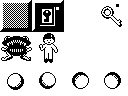
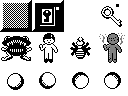
Add files via upload

Changed region(s): [[0.7812, 0.3438, 0.9688, 0.6562], [0.5312, 0.375, 0.7188, 0.625]]

diff --git a/index.html b/index.html
@@ -5,8 +5,8 @@
 <head>
   <meta charset="UTF-8">
   <title>Heroe escape</title>
-
-  <link rel="manifest" href="manifest.json">
+  <meta name="viewport" content="width=device-width, initial-scale=1.0, maximum-scale=1.0, user-scalable=no">
+  <link rel="manifest" href="manifest.webmanifest">
 
 
 
@@ -15,6 +15,9 @@
   <link href="https://fonts.googleapis.com/icon?family=Material+Icons" rel="stylesheet">
 
 
+  <link href="https://unpkg.com/nes.css@2.3.0/css/nes.min.css" rel="stylesheet" />
+
+  <link rel="shortcut icon" href="icon-192x192.png" type="image/x-icon">
 
   <script src="js/howler.core.js"></script>
   <script src='js/juego.js'></script>
@@ -25,17 +28,30 @@
     }
 
     body {
+      -webkit-user-select: none;
+      -moz-user-select: none;
+      -ms-user-select: none;
+      user-select: none;
+
+
+
       font-family: fuente !important;
+      background-image: repeating-linear-gradient(257deg, hsla(20, 0%, 93%, 0.12) 0px, transparent 2px, hsla(20, 0%, 93%, 0.12) 5px, transparent 9px, hsla(20, 0%, 93%, 0.12) 12px), repeating-linear-gradient(152deg, hsla(20, 0%, 93%, 0.12) 0px, transparent 2px, hsla(20, 0%, 93%, 0.12) 5px, transparent 9px, hsla(20, 0%, 93%, 0.12) 12px), repeating-linear-gradient(222deg, hsla(20, 0%, 93%, 0.12) 0px, transparent 2px, hsla(20, 0%, 93%, 0.12) 5px, transparent 9px, hsla(20, 0%, 93%, 0.12) 12px), linear-gradient(90deg, rgb(37, 37, 37), rgb(37, 37, 37));
       height: 100vh;
+      background-size: cover;
+      background-repeat: no-repeat;
+    }
+
+    .nes-btn.is-primary {
+      width: 30%;
     }
   </style>
 
 </head>
 
-<body onload='inicializa();'
-  style="background-image: linear-gradient(216deg, rgba(77, 77, 77,0.05) 0%, rgba(77, 77, 77,0.05) 25%,rgba(42, 42, 42,0.05) 25%, rgba(42, 42, 42,0.05) 38%,rgba(223, 223, 223,0.05) 38%, rgba(223, 223, 223,0.05) 75%,rgba(36, 36, 36,0.05) 75%, rgba(36, 36, 36,0.05) 100%),linear-gradient(44deg, rgba(128, 128, 128,0.05) 0%, rgba(128, 128, 128,0.05) 34%,rgba(212, 212, 212,0.05) 34%, rgba(212, 212, 212,0.05) 57%,rgba(25, 25, 25,0.05) 57%, rgba(25, 25, 25,0.05) 89%,rgba(135, 135, 135,0.05) 89%, rgba(135, 135, 135,0.05) 100%),linear-gradient(241deg, rgba(55, 55, 55,0.05) 0%, rgba(55, 55, 55,0.05) 14%,rgba(209, 209, 209,0.05) 14%, rgba(209, 209, 209,0.05) 60%,rgba(245, 245, 245,0.05) 60%, rgba(245, 245, 245,0.05) 69%,rgba(164, 164, 164,0.05) 69%, rgba(164, 164, 164,0.05) 100%),linear-gradient(249deg, rgba(248, 248, 248,0.05) 0%, rgba(248, 248, 248,0.05) 32%,rgba(148, 148, 148,0.05) 32%, rgba(148, 148, 148,0.05) 35%,rgba(202, 202, 202,0.05) 35%, rgba(202, 202, 202,0.05) 51%,rgba(181, 181, 181,0.05) 51%, rgba(181, 181, 181,0.05) 100%),linear-gradient(92deg, hsl(214,0%,11%),hsl(214,0%,11%)); ">
+<body onload='inicializa();'>
 
-  <nav class="">
+  <!-- <nav class="">
     <div class="nav-wrapper blue-grey">
       
       <ul id="nav-mobile" class="right hide-on-med-and-down container">
@@ -45,50 +61,103 @@
         <li><a class="modal-trigger" href="#modal1">Ayuda</a></li>
       </ul>
     </div>
-  </nav>
+  </nav> -->
+
+  <div class="fixed-action-btn horizontal" style="position: absolute; display: inline-block; right: 24px;">
+    <a class="btn-floating btn-large red">
+      <i class="large material-icons">menu</i>
+    </a>
+    <ul>
+      <li>
+        <a class="btn-floating blue-grey darken-1" onclick="cambiaStilo(1);">
+          <i class="material-icons">filter_1</i>
+        </a>
+      </li>
+      <li>
+        <a class="btn-floating blue-grey darken-1" onclick="cambiaStilo(2);">
+          <i class="material-icons">filter_2</i>
+        </a>
+      </li>
+      <li>
+        <a class="btn-floating blue-grey darken-1" onclick="cambiaStilo(3);">
+          <i class="material-icons">filter_3</i>
+        </a>
+      </li>
+      <li>
+        <a class="btn-floating blue-grey darken-1" onclick="cambiaStilo(Math.floor(Math.random()*3));">
+          <i class="material-icons">shuffle</i>
+        </a>
+      </li>
+      <li>
+        <a class="btn-floating blue modal-trigger" href="#modal1">
+          <i class="material-icons">help_outline</i>
+        </a>
+      </li>
+    </ul>
+  </div>
 
 
 
   <br>
   <div class=" container">
     <center>
-      <canvas id='canvas' width='750' height='500' style='border:2px solid #000000;'></canvas>
+      <canvas id='canvas' width='750' height='500' class="nes-container is-dark"></canvas>
     </center>
 
 
     <div class="row">
 
       <div class="col s6 m6">
-        <div class="card blue-grey">
+        <div class="card nes-container is-dark with-title">
+          <p class="title">Nivel</p>
           <div class="card-content white-text">
-            
-            <h5 class="card-title center">Nivel</h5>
             <h5 class="center" id="nivel"></h5>
+            <progress class="nes-progress" value="1" max="8"></progress>
           </div>
-          <!-- <div class="card-action">
-            <a href="#">Compartir</a>
 
-          </div> -->
         </div>
       </div>
       <div class="col s6 m6">
-        <div class="card blue-grey">
+        <div class="card nes-container is-dark with-title">
+          <p class="title">Maximo</p>
           <div class="card-content white-text">
-            <a class="btn-floating halfway-fab waves-effect waves-light red"><i class="material-icons">share</i></a>
-            <h5 class="card-title center">Maximo</h5>
-            <h5 class="center" id="maximo"></h5>
-          </div>
-          <!-- <div class="card-action">
-            <a href="#">Compartir</a>
 
-          </div> -->
+            <h5 class="center" id="maximo"></h5>
+            <progress class="nes-progress" value="3" max="8"></progress>
+          </div>
+
         </div>
       </div>
     </div>
 
+    <div id="botones" style="display: none;">
+      <center>
+        <div class="row">
+          <button type="button" class="nes-btn is-primary" onclick=" protagonista.arriba();">
+            <i class="material-icons">
+              arrow_upward
+            </i>
+          </button>
 
-    <!-- <a class="btn-floating btn-large waves-effect waves-light right green darken-3 modal-trigger" href="#modal1"><i
-        class="material-icons">help_outline</i></a> -->
+        </div>
+        <div class="row">
+          <button type="button" class="nes-btn is-primary" onclick="protagonista.izquierda();">
+            <i class="material-icons">arrow_back</i>
+          </button>
+          <button type="button" class="nes-btn is-disabled"><i class="material-icons">add</i></button>
+          <button type="button" class="nes-btn is-primary" onclick=" protagonista.derecha();">
+            <i class="material-icons">arrow_forward</i>
+          </button>
+
+        </div>
+        <div class="row">
+          <button type="button" class="nes-btn is-primary" onclick="protagonista.abajo();">
+            <i class="material-icons">arrow_downward</i>
+          </button>
+        </div>
+      </center>
+
+    </div>
 
 
 
@@ -120,6 +189,22 @@
       var instances = M.Modal.init(elems, options);
     });
 
+    navegador = navigator.userAgent;
+    moviles = ["Mobile", "iPhone", "iPod", "BlackBerry", "Opera Mini", "Sony", "MOT", "Nokia", "Samsung"];
+    detector = 0;
+    for (i in moviles) {
+      compruebo = navegador.indexOf(moviles[i])
+      if (compruevo > -1) {
+        detector = 1;
+
+      }
+    }
+    if (detector == 1) {
+      document.getElementById('canvas').style.zoom = "40%";
+      document.getElementById('botones').style.display=" ";
+    }
+
+
   </script>
 
   <script>
@@ -128,7 +213,7 @@
       window.addEventListener('load', function () {
         //navigator.serviceWorker.register('sw_offlinepage.js')
         //navigator.serviceWorker.register('sw_offlinesite.js')
-        navigator.serviceWorker.register('js/sw.js')
+        navigator.serviceWorker.register('js/generate-sw.js')
 
           .then(function (registration) {
             console.log('Service worker registrado de modo correcto');

diff --git a/js/generate-sw.js b/js/generate-sw.js
@@ -1,0 +1,76 @@
+/*
+Copyright 2015, 2019 Google Inc. All Rights Reserved.
+ Licensed under the Apache License, Version 2.0 (the "License");
+ you may not use this file except in compliance with the License.
+ You may obtain a copy of the License at
+ http://www.apache.org/licenses/LICENSE-2.0
+ Unless required by applicable law or agreed to in writing, software
+ distributed under the License is distributed on an "AS IS" BASIS,
+ WITHOUT WARRANTIES OR CONDITIONS OF ANY KIND, either express or implied.
+ See the License for the specific language governing permissions and
+ limitations under the License.
+*/
+
+// Incrementing OFFLINE_VERSION will kick off the install event and force
+// previously cached resources to be updated from the network.
+const OFFLINE_VERSION = 1;
+const CACHE_NAME = 'offline';
+// Customize this with a different URL if needed.
+const OFFLINE_URL = 'offline.html';
+
+self.addEventListener('install', (event) => {
+  event.waitUntil((async () => {
+    const cache = await caches.open(CACHE_NAME);
+    // Setting {cache: 'reload'} in the new request will ensure that the response
+    // isn't fulfilled from the HTTP cache; i.e., it will be from the network.
+    await cache.add(new Request(OFFLINE_URL, {cache: 'reload'}));
+  })());
+});
+
+self.addEventListener('activate', (event) => {
+  event.waitUntil((async () => {
+    // Enable navigation preload if it's supported.
+    // See https://developers.google.com/web/updates/2017/02/navigation-preload
+    if ('navigationPreload' in self.registration) {
+      await self.registration.navigationPreload.enable();
+    }
+  })());
+
+  // Tell the active service worker to take control of the page immediately.
+  self.clients.claim();
+});
+
+self.addEventListener('fetch', (event) => {
+  // We only want to call event.respondWith() if this is a navigation request
+  // for an HTML page.
+  if (event.request.mode === 'navigate') {
+    event.respondWith((async () => {
+      try {
+        // First, try to use the navigation preload response if it's supported.
+        const preloadResponse = await event.preloadResponse;
+        if (preloadResponse) {
+          return preloadResponse;
+        }
+
+        const networkResponse = await fetch(event.request);
+        return networkResponse;
+      } catch (error) {
+        // catch is only triggered if an exception is thrown, which is likely
+        // due to a network error.
+        // If fetch() returns a valid HTTP response with a response code in
+        // the 4xx or 5xx range, the catch() will NOT be called.
+        console.log('Fetch failed; returning offline page instead.', error);
+
+        const cache = await caches.open(CACHE_NAME);
+        const cachedResponse = await cache.match(OFFLINE_URL);
+        return cachedResponse;
+      }
+    })());
+  }
+
+  // If our if() condition is false, then this fetch handler won't intercept the
+  // request. If there are any other fetch handlers registered, they will get a
+  // chance to call event.respondWith(). If no fetch handlers call
+  // event.respondWith(), the request will be handled by the browser as if there
+  // were no service worker involvement.
+});

diff --git a/js/juego.js b/js/juego.js
@@ -293,7 +293,29 @@ var malo = function (x, y) {
 
 
   this.dibuja = function () {
-    ctx.drawImage(tileMap, 0, 32, 32, 32, this.x * anchoF, this.y * altoF, anchoF, altoF);
+
+    switch (nivel) {
+      case 1:
+      case 2:
+      case 3:
+        ctx.drawImage(tileMap, 0, 32, 32, 32, this.x * anchoF, this.y * altoF, anchoF, altoF);
+        break;
+      case 4:
+      case 5:
+      case 6:
+        ctx.drawImage(tileMap, 64, 32, 32, 32, this.x * anchoF, this.y * altoF, anchoF, altoF);
+        break;
+      case 7:
+      case 8:
+        ctx.drawImage(tileMap, 96, 32, 32, 32, this.x * anchoF, this.y * altoF, anchoF, altoF);
+        break;
+    
+      default:
+        break;
+    }
+
+
+   /*  ctx.drawImage(tileMap, 0, 32, 32, 32, this.x * anchoF, this.y * altoF, anchoF, altoF); */
   }
 
 
@@ -510,15 +532,54 @@ function cambiaStilo(tile) {
   switch (tile) {
     case 1:
       stiloMapa = 'img/tilemap5.png';
-      inicializa();
+      tileMap = new Image();
+
+
+
+
+
+      tileMap.src = stiloMapa;
+      borraCanvas();
+      dibujaEscenario();
+      imagenAntorcha.dibuja();
+      imagenAntorcha2.dibuja();
+      imagenAntorcha3.dibuja();
+      imagenAntorcha4.dibuja();
+      protagonista.dibuja();
       break;
     case 2:
       stiloMapa = 'img/tilemap6.png';
-      inicializa();
+      tileMap = new Image();
+
+
+
+
+
+      tileMap.src = stiloMapa;
+      borraCanvas();
+      dibujaEscenario();
+      imagenAntorcha.dibuja();
+      imagenAntorcha2.dibuja();
+      imagenAntorcha3.dibuja();
+      imagenAntorcha4.dibuja();
+      protagonista.dibuja();
       break;
     case 3:
       stiloMapa = 'img/tilemap7.png';
-      inicializa();
+      tileMap = new Image();
+
+
+
+
+
+      tileMap.src = stiloMapa;
+      borraCanvas();
+      dibujaEscenario();
+      imagenAntorcha.dibuja();
+      imagenAntorcha2.dibuja();
+      imagenAntorcha3.dibuja();
+      imagenAntorcha4.dibuja();
+      protagonista.dibuja();
       break;
 
     default:
@@ -568,7 +629,7 @@ function inicializa() {
   imagenAntorcha4 = new antorcha(14, 9);
 
   //CREAMOS LOS ENEMIGOS
-  //enemigo.push(new malo(3, 3));
+ // enemigo.push(new malo(3, 3));
   enemigo.push(new malo(5, 7));
   //enemigo.push(new malo(7, 7));
 
@@ -577,6 +638,7 @@ function inicializa() {
 
     if (tecla.keyCode == 38) {
       protagonista.arriba();
+      window.navigator.vibrate(200);
     }
 
     if (tecla.keyCode == 40) {
